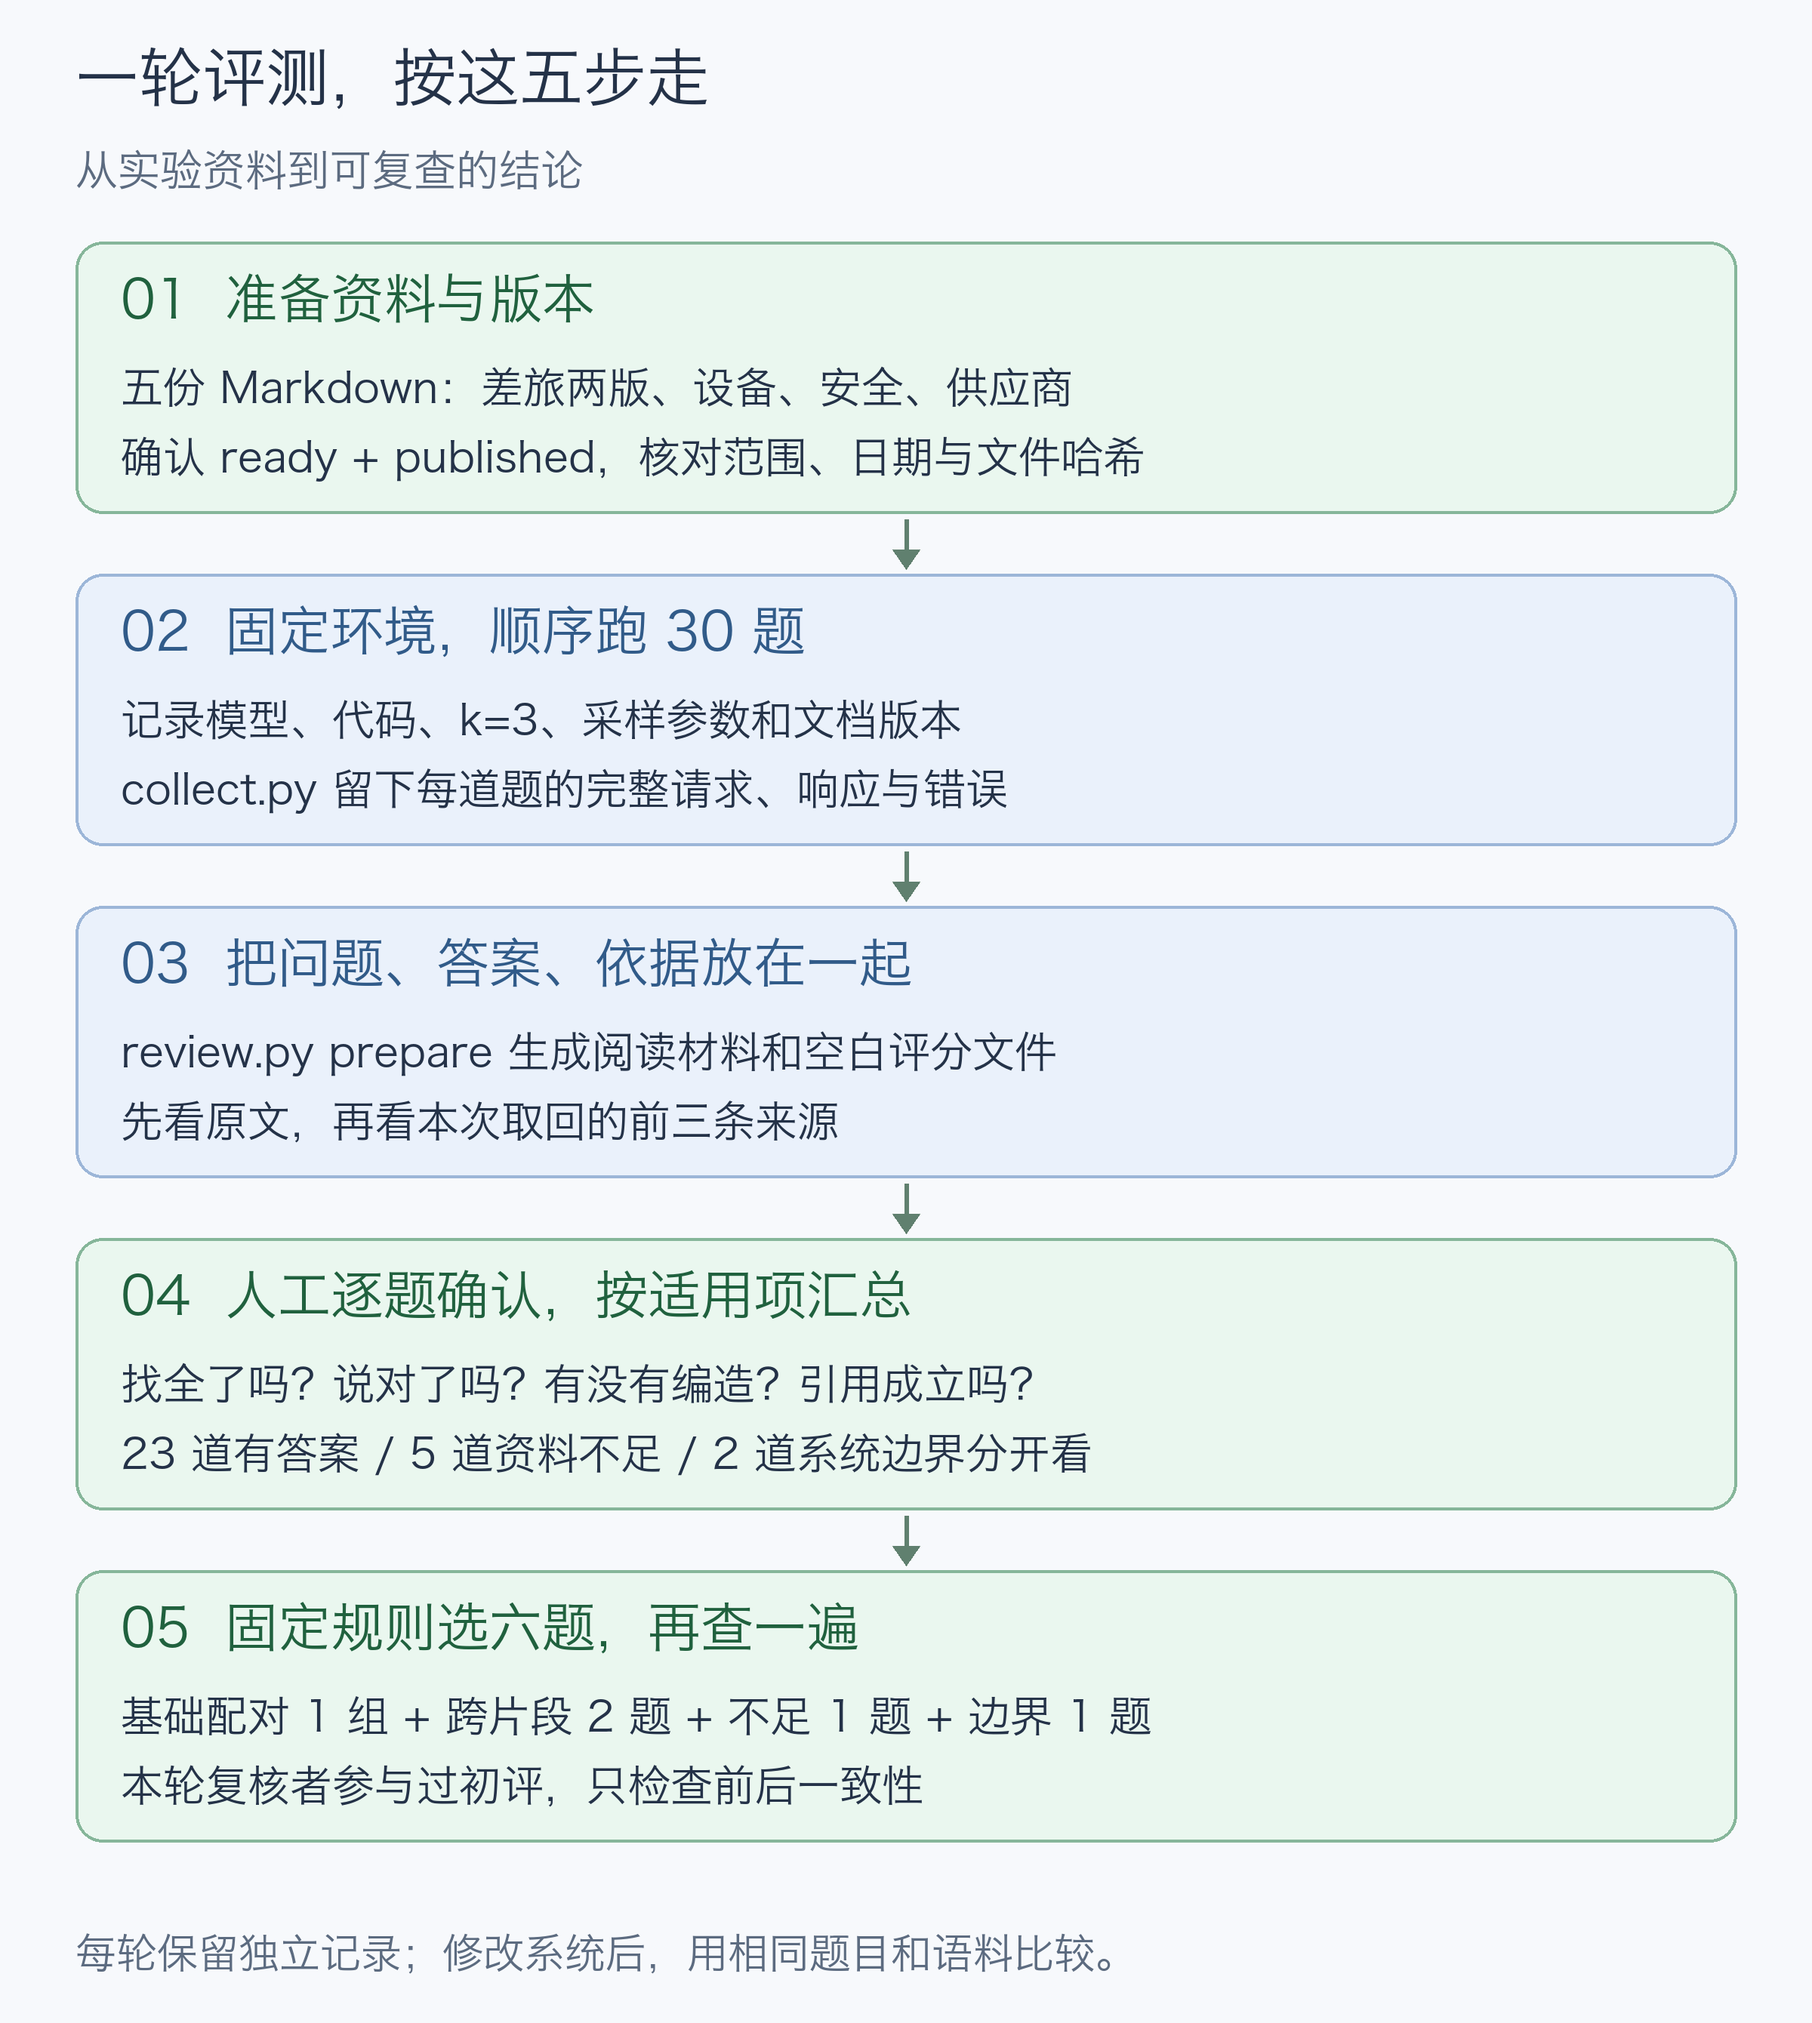
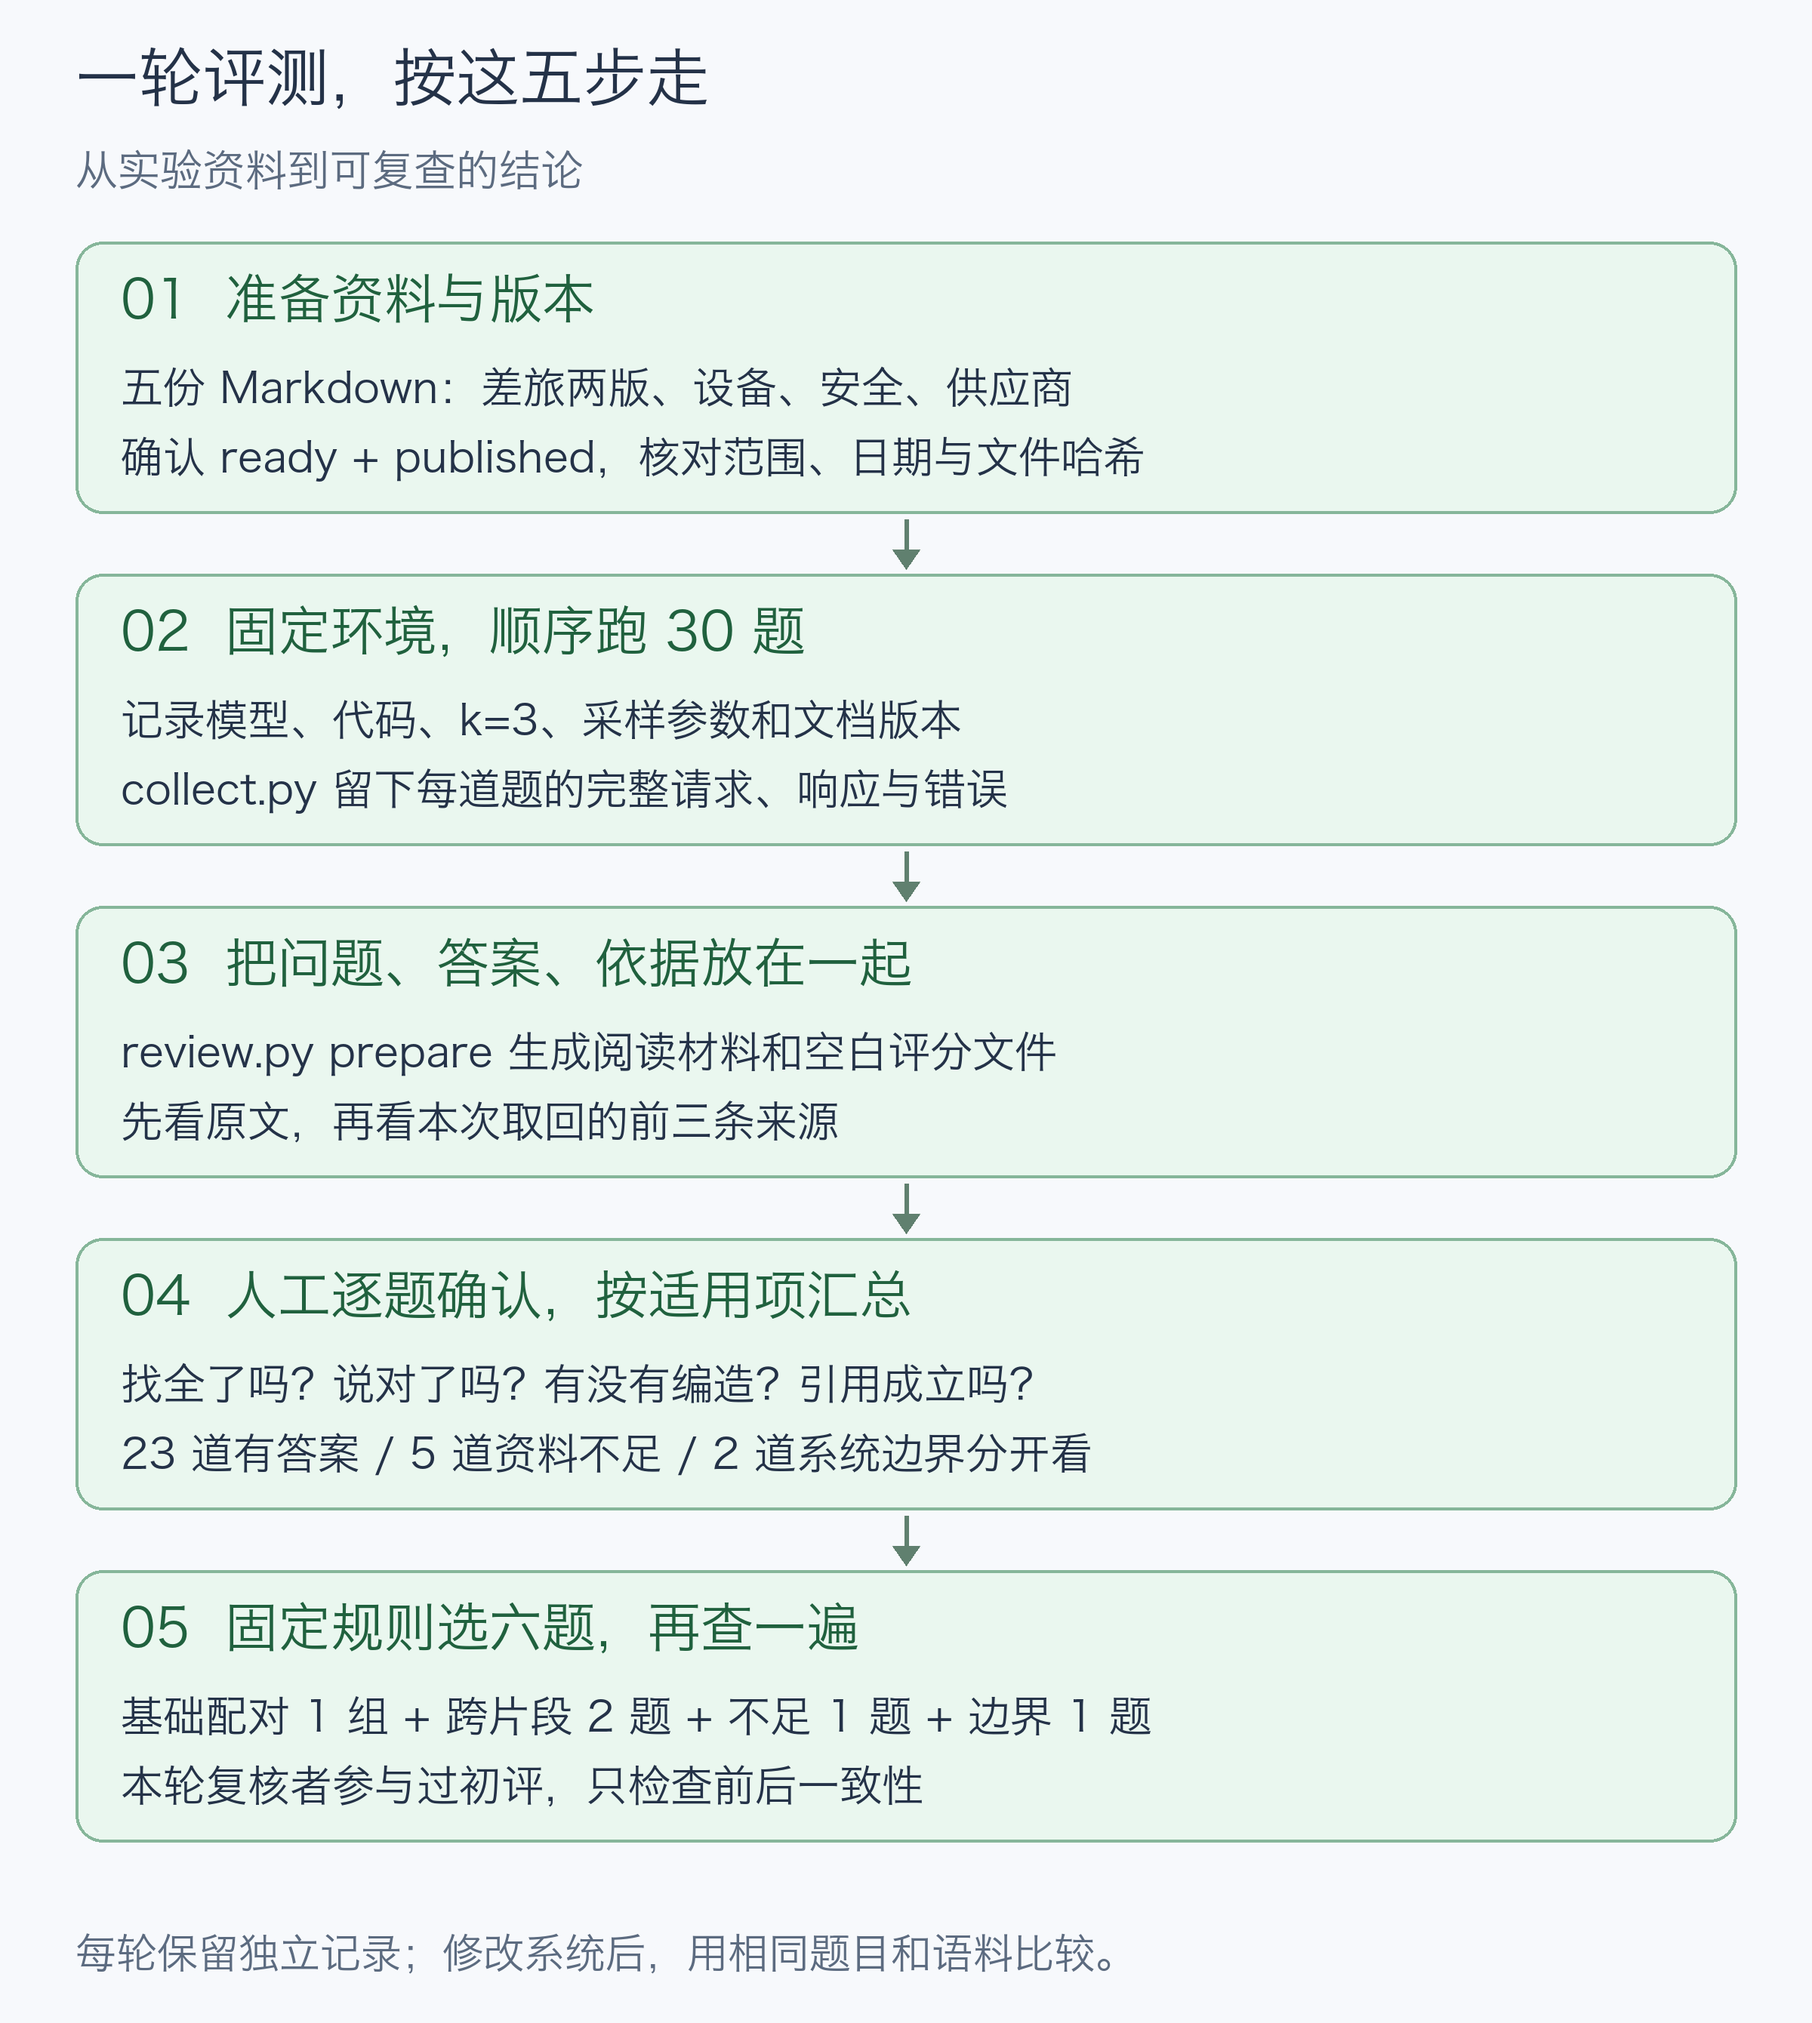
docs: clarify optional checks and illustrate the evaluation workflow

diff --git a/rag-eval-lab/README.md b/rag-eval-lab/README.md
@@ -2,6 +2,8 @@
 
 复用第二篇的 8089 文档版本服务，顺序调用 `/api/ask`，保存完整响应，再检查版本、检索依据、答案和引用。工具不会自动把关键词命中当成回答正确，也不合成一个总分。
 
+![五步评测流程](figures/article-03-review-steps.png)
+
 ## 环境与文件
 
 - 新采集：先部署 [文档版本服务](../rag-version-lab/README.md)，确认 OGX、vLLM、CPU Embedding、pgvector 和 Worker 正常。继续使用原单张 L40S，不新增模型、容器或常驻服务。
@@ -82,7 +84,7 @@ python3 collect.py \
   --output-root runs
 ```
 
-最后一行打印新运行目录。把它赋给下方变量（这里的时间戳只作格式示意，须替换）：
+最后一行打印新运行目录。把它赋给下方变量（须替换为实际路径）。下面的 `evaluate.py` 是可选的提前程序检查；下一步 `review.py prepare` 也会执行同一套检查，并写入 `automatic-checks.json`，不必两次都跑：
 
 ```bash
 RUN='runs/实际输出的运行目录'
@@ -166,6 +168,10 @@ python3 review.py sample --run examples/diagnostic-v3 \
 ```
 
 预期事实评分为PASS14/FAIL9（仅23道有答案题），事实覆盖24/41，六题为K5-a、K5-b、K4-a、X1-a、N2、B3。它们只描述这组实验数据，不能推成通用模型准确率，也不是本次发布新跑出的效果提升。
+
+## 案例如何定位
+
+![三类实际诊断案例](figures/article-03-diagnosis-cases.png)
 
 ## 测试
 
